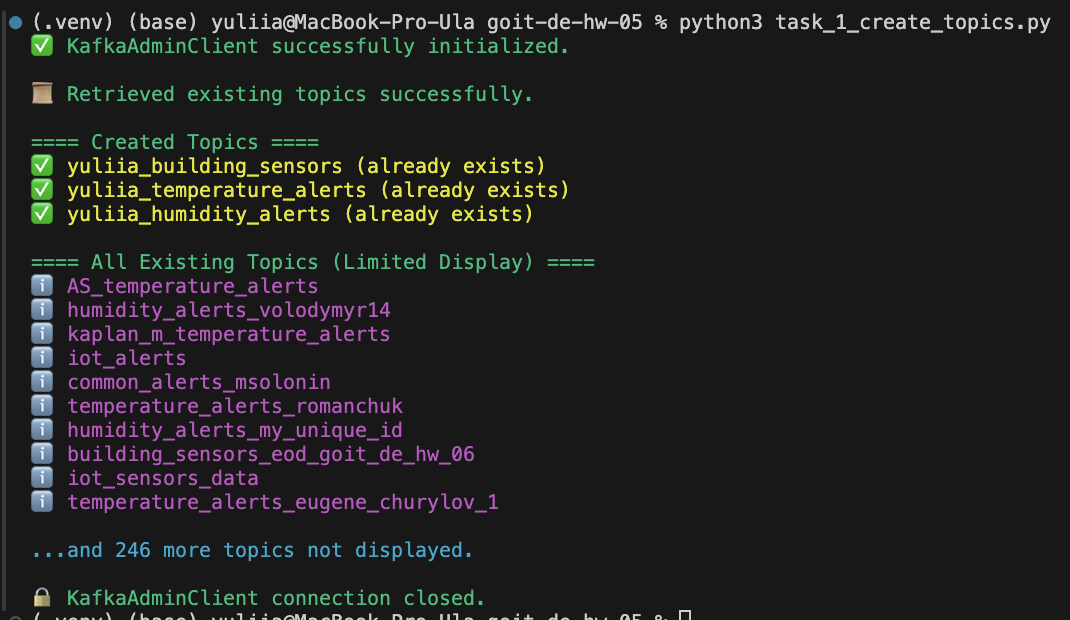
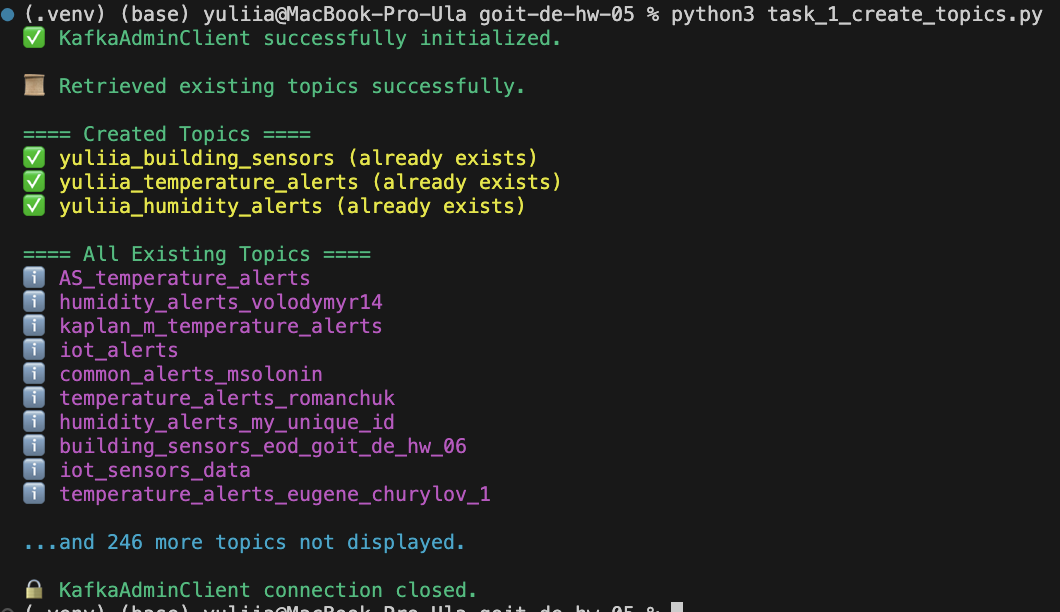
update screen

Changed region(s): [[0.0, 0.0, 0.9962, 1.0]]

diff --git a/task_1_create_topics.py b/task_1_create_topics.py
@@ -64,7 +64,7 @@ except Exception as e:
     print(Fore.RED + f"❌ An error occurred during topic creation: {e}")
 
 # Виведення обмеженого списку існуючих топіків
-print(Fore.GREEN + "\n==== All Existing Topics (Limited Display) ====")
+print(Fore.GREEN + "\n==== All Existing Topics ====")
 limited_topics = list(existing_topics)[:MAX_TOPICS_DISPLAY]
 for topic in limited_topics:
     if topic in topics:
